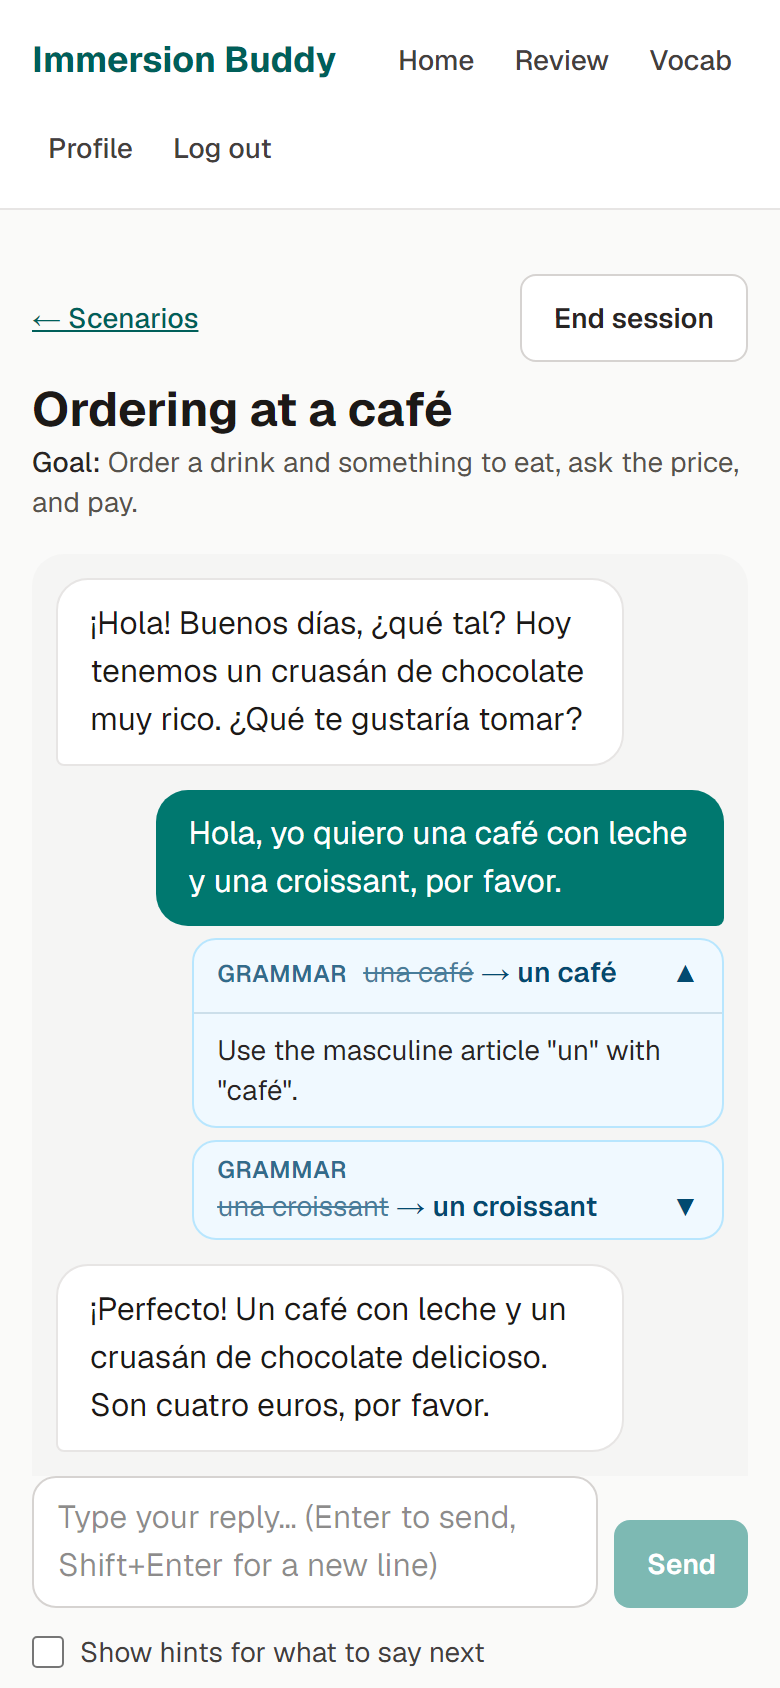
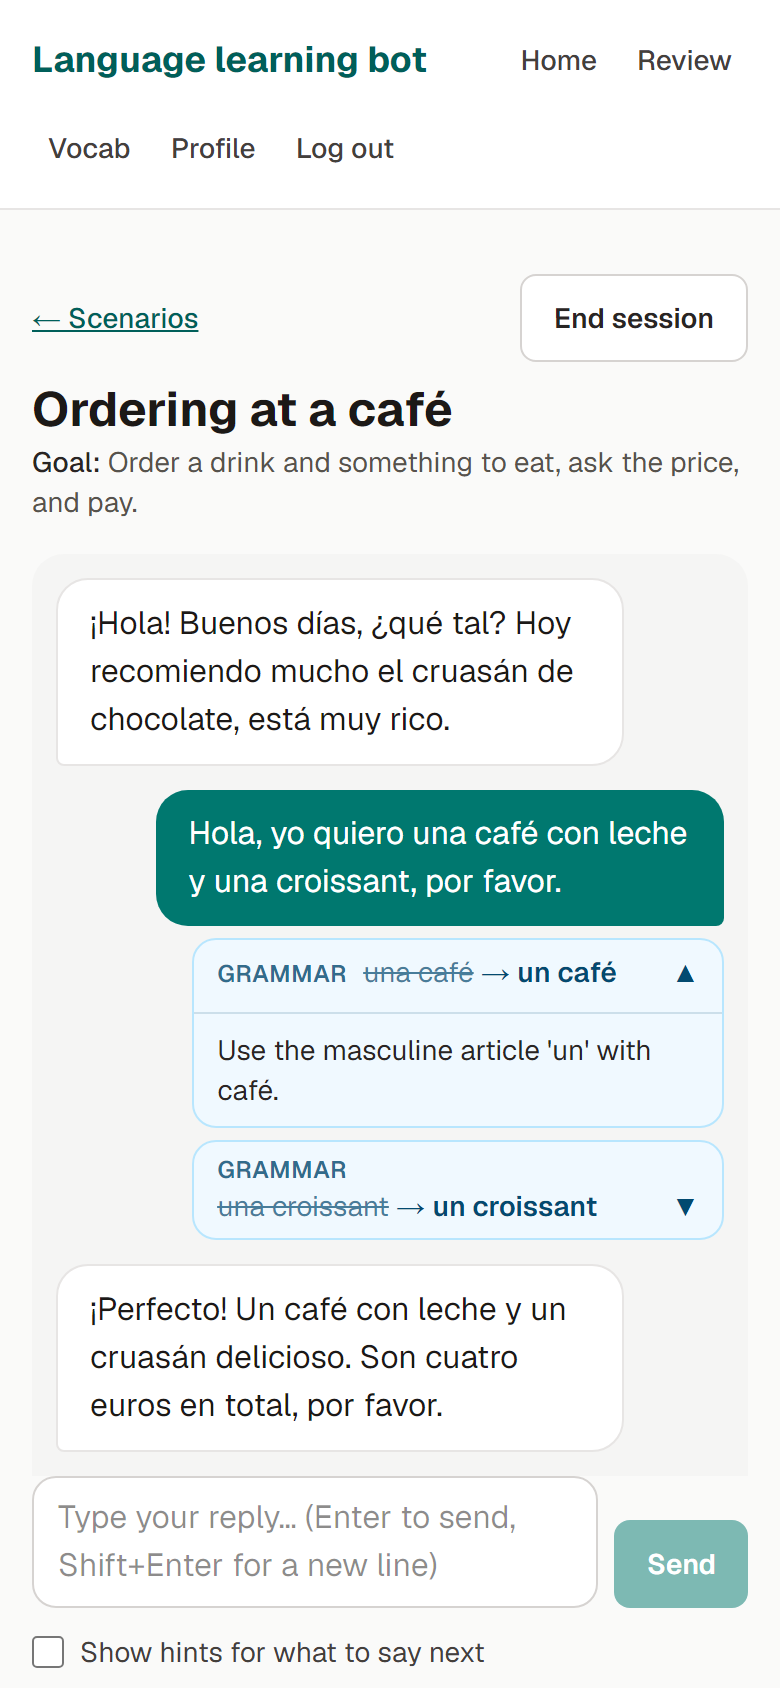
Rename the app to 'Language learning bot' everywhere and retake screenshots

diff --git a/frontend/app/page.tsx b/frontend/app/page.tsx
@@ -4,7 +4,7 @@ export default function Landing() {
   return (
     <main className="mx-auto flex w-full max-w-2xl flex-1 flex-col justify-center px-4 py-16">
       <h1 className="text-4xl font-bold tracking-tight text-stone-900 sm:text-5xl">
-        Language Immersion Buddy
+        Language learning bot
       </h1>
       <p className="mt-4 text-lg text-stone-700">
         Practise a language by role-playing real situations, like ordering at a café or asking

diff --git a/frontend/app/register/page.tsx b/frontend/app/register/page.tsx
@@ -2,7 +2,7 @@ import type { Metadata } from "next";
 
 import { AuthForm } from "@/components/AuthForm";
 
-export const metadata: Metadata = { title: "Sign up · Language Immersion Buddy" };
+export const metadata: Metadata = { title: "Sign up · Language learning bot" };
 
 export default function RegisterPage() {
   return <AuthForm mode="register" />;

diff --git a/frontend/app/login/page.tsx b/frontend/app/login/page.tsx
@@ -2,7 +2,7 @@ import type { Metadata } from "next";
 
 import { AuthForm } from "@/components/AuthForm";
 
-export const metadata: Metadata = { title: "Log in · Language Immersion Buddy" };
+export const metadata: Metadata = { title: "Log in · Language learning bot" };
 
 export default function LoginPage() {
   return <AuthForm mode="login" />;

diff --git a/frontend/app/layout.tsx b/frontend/app/layout.tsx
@@ -13,7 +13,7 @@ const geistMono = Geist_Mono({
 });
 
 export const metadata: Metadata = {
-  title: "Language Immersion Buddy",
+  title: "Language learning bot",
   description: "Practise a language through role-play, with gentle corrections.",
 };
 

diff --git a/backend/app/main.py b/backend/app/main.py
@@ -13,7 +13,7 @@ def create_app() -> FastAPI:
     settings = get_settings()
     logging.basicConfig(level=settings.log_level)
 
-    app = FastAPI(title="Language Immersion Buddy API", version="0.1.0")
+    app = FastAPI(title="Language learning bot API", version="0.1.0")
     app.add_middleware(
         CORSMiddleware,
         allow_origins=[settings.cors_origin],

diff --git a/docs/development.md b/docs/development.md
@@ -1,6 +1,6 @@
 # Development guide
 
-Technical details for working on Language Immersion Buddy. For what the app does and how to
+Technical details for working on Language learning bot. For what the app does and how to
 start it, see the [README](../README.md). Design decisions are logged in
 [decisions.md](decisions.md).
 

diff --git a/README.md b/README.md
@@ -1,4 +1,4 @@
-# Language Immersion Buddy
+# Language learning bot
 
 Practise a language by role-playing real situations with an AI partner. Order coffee, check
 into a hotel, or get through a job interview. You get gentle corrections after every message,
